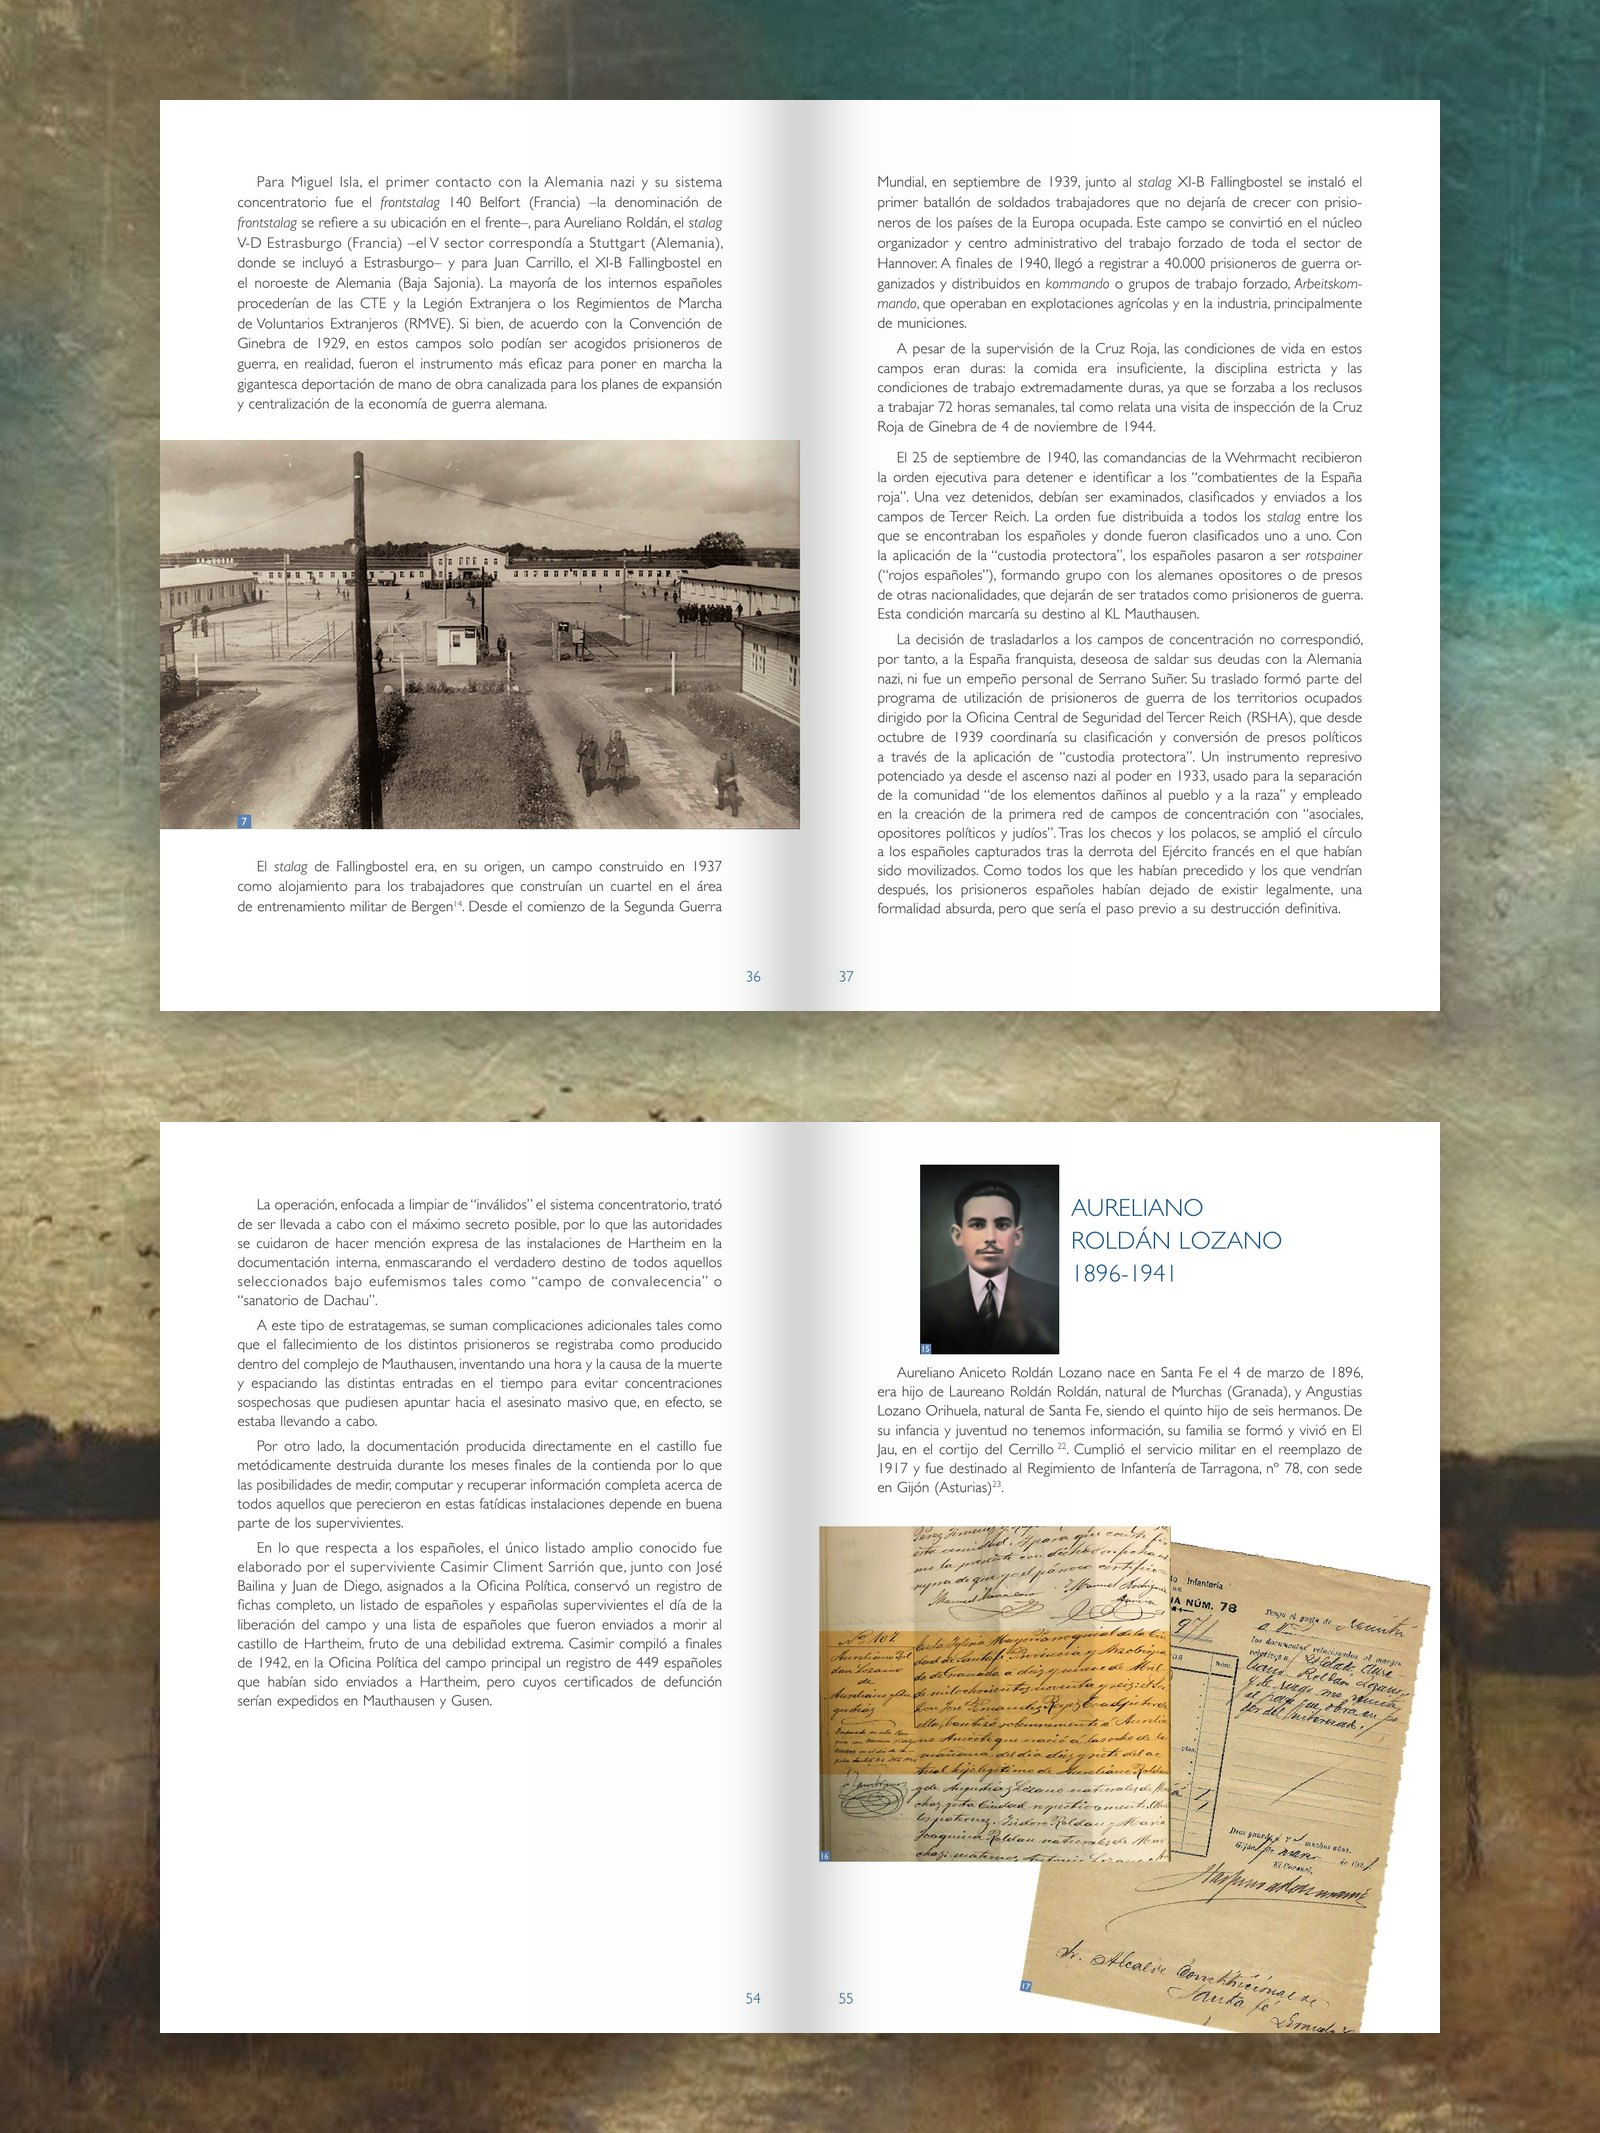
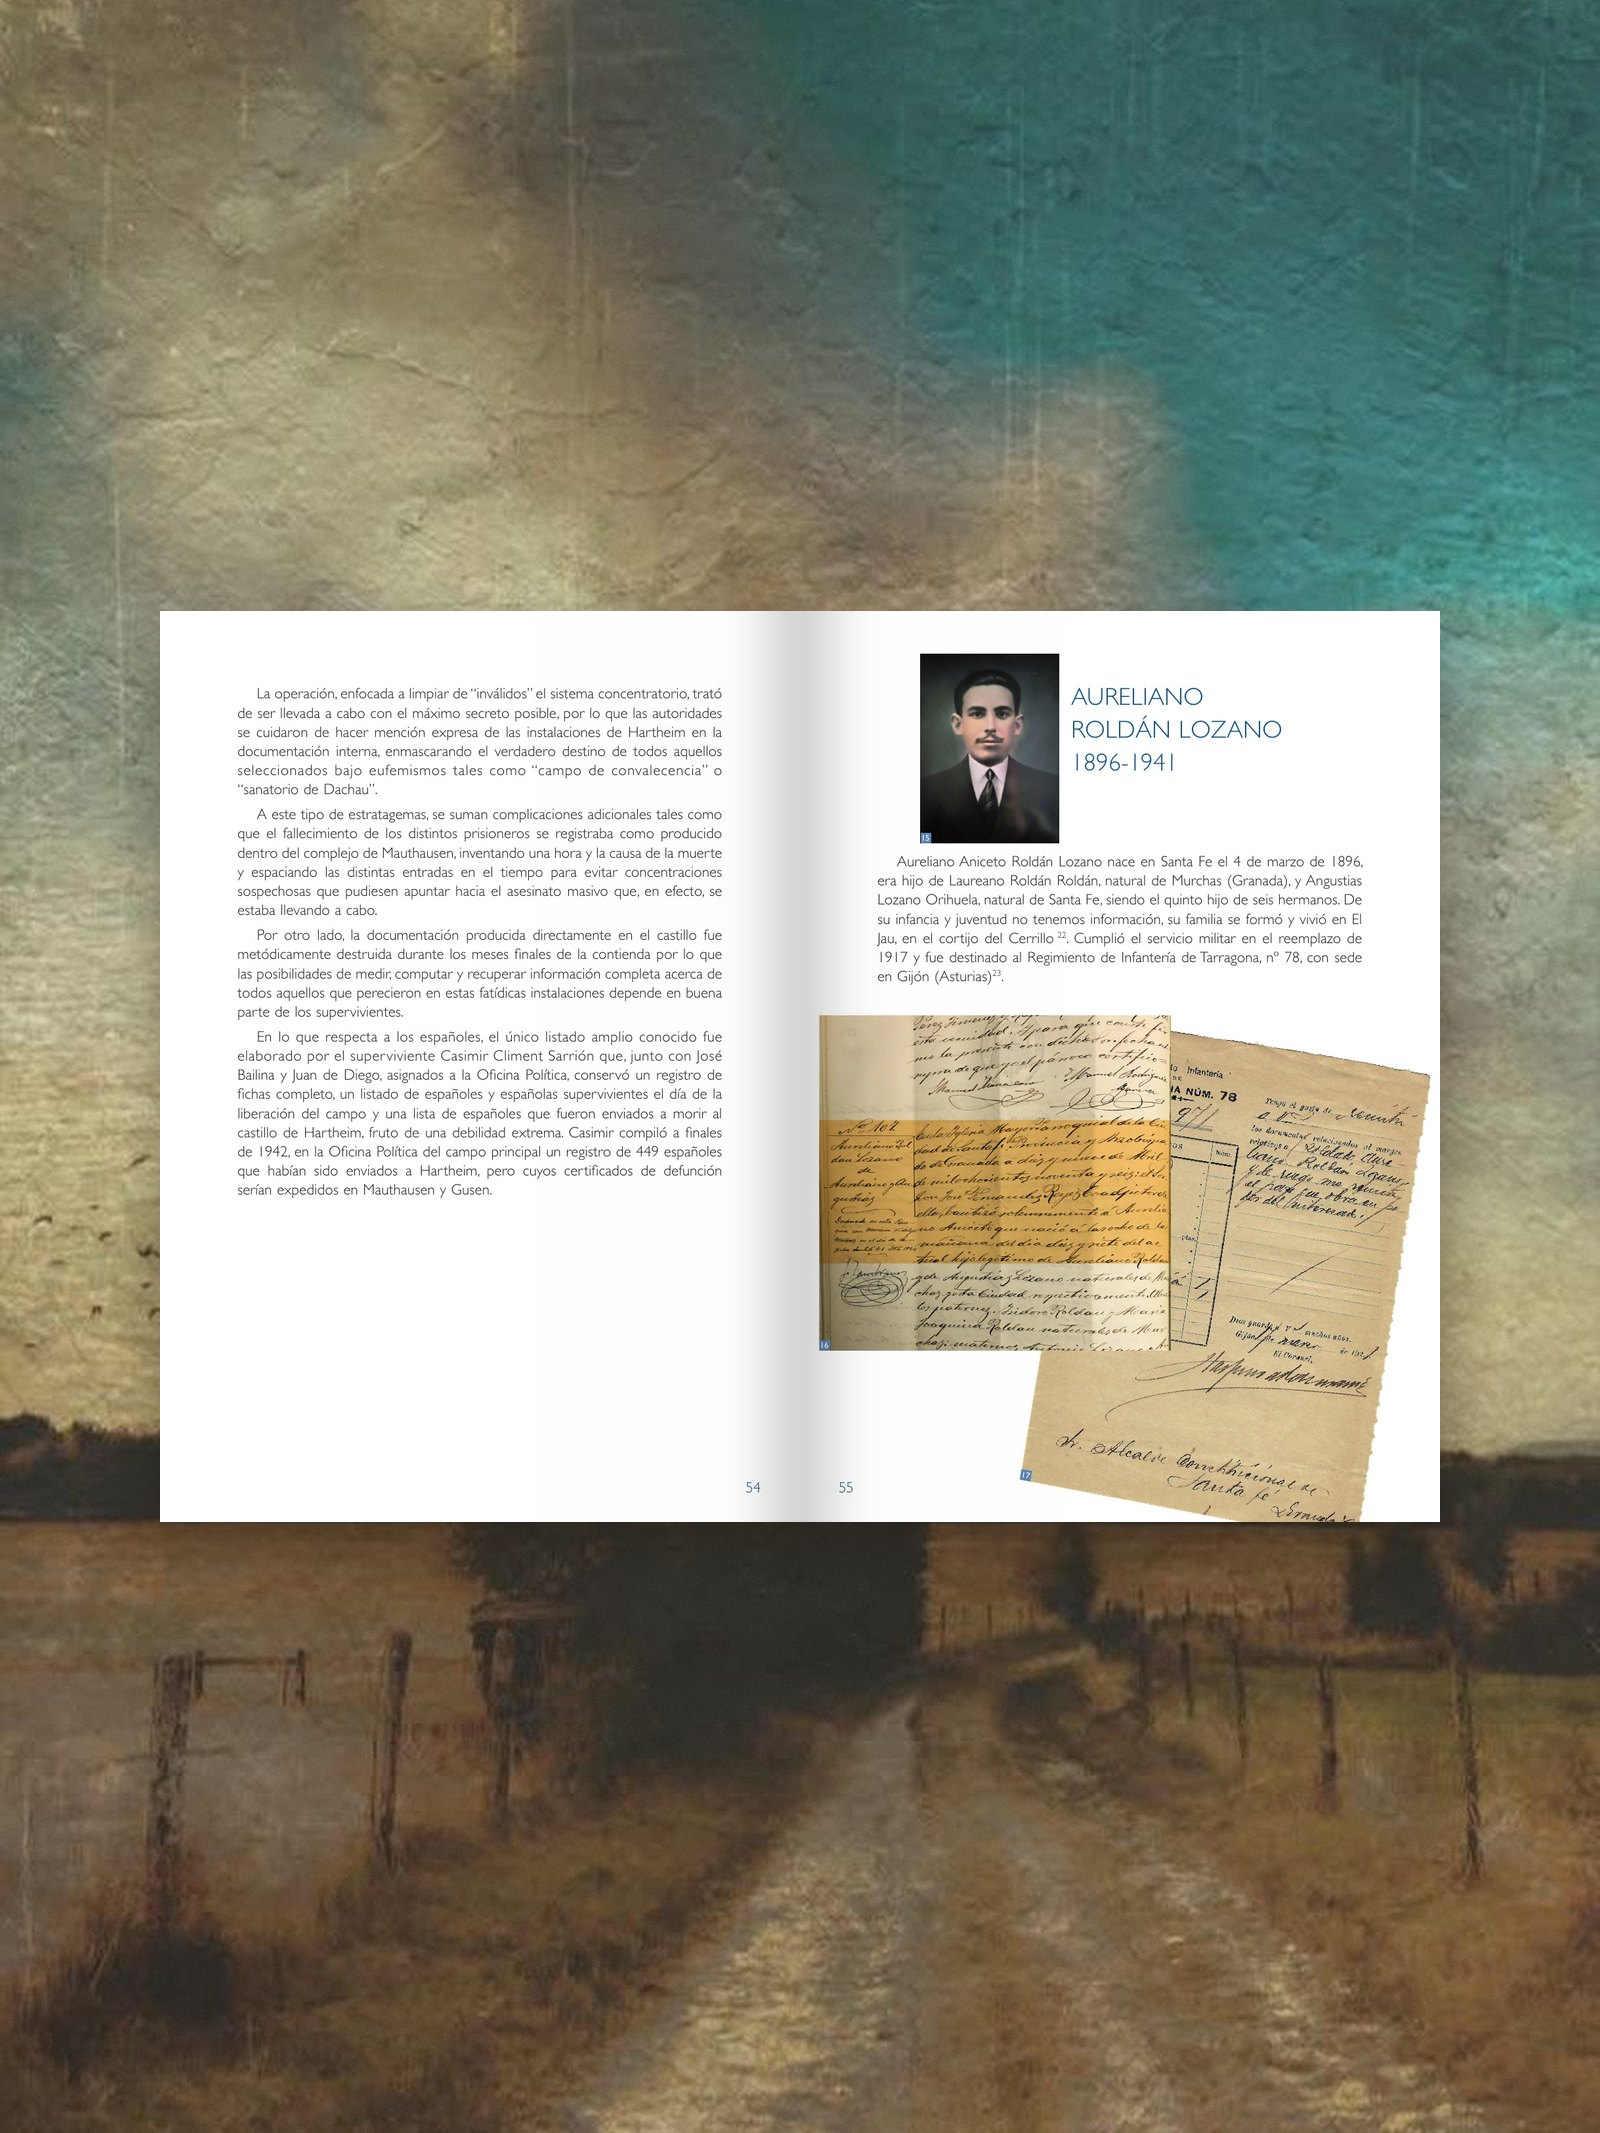
Fotos interiores alternando sueltas y dobles (Santa Fe, Primitivismo, Coín); recorte de vídeos con U2-Net
Claude-Session: https://claude.ai/code/session_014ZHEqD2MNxqjAg6cJYzQom

diff --git a/web/sitio/contenido.js b/web/sitio/contenido.js
@@ -162,7 +162,7 @@ window.CONTENIDO = {
         portada: "fotos/proyectos/06-santa-maria-de-coin-portada.jpg",
         detalle: "fotos/proyectos/06-santa-maria-de-coin-detalle.jpg",
         completa: "fotos/proyectos/06-santa-maria-de-coin-completa.jpg",
-        escenas: ["fotos/proyectos/06-santa-maria-de-coin-interior-3.jpg","fotos/proyectos/06-santa-maria-de-coin-interior-1.jpg","fotos/proyectos/06-santa-maria-de-coin-interior-2.jpg","fotos/proyectos/06-santa-maria-de-coin-interior-4.mp4"],
+        escenas: ["fotos/proyectos/06-santa-maria-de-coin-interior-1.jpg","fotos/proyectos/06-santa-maria-de-coin-interior-2.jpg","fotos/proyectos/06-santa-maria-de-coin-interior-3.jpg","fotos/proyectos/06-santa-maria-de-coin-interior-4.mp4"],
       },
       ],
     },

diff --git a/web/scripts/video_sin_fondo.py b/web/scripts/video_sin_fondo.py
@@ -2,14 +2,14 @@
 
 modo "negro": el recuadro del vídeo queda con fondo negro (como los vídeos de libro generados).
 modo "fondo": sin recuadro; el libro va directamente sobre la imagen de fondo, con su sombra.
-El fondo gris se modela como una superficie suave (polinomio) ajustada a la mediana de los fotogramas,
-descartando el libro de forma iterativa; lo que se aparta de ese modelo es libro (o sombra).
+El libro se recorta fotograma a fotograma con U2-Net (paquete rembg), que lo deja sólido aunque tenga
+zonas del mismo gris que el estudio. Requiere: python3 -m pip install "rembg[cpu]".
 
 Uso: python3 web/scripts/video_sin_fondo.py <vídeo.mp4> <fondo.jpg> <salida.mp4> <negro|fondo> [escala]
 """
 import sys, subprocess
 import numpy as np
-from scipy import ndimage
+from rembg import remove, new_session
 from PIL import Image, ImageFilter
 import santa_fe_fondos as sf
 
@@ -31,21 +31,6 @@ def lee(v, filtro, w, h):
         if len(b) < n: break
         yield np.frombuffer(b, np.uint8).reshape(h, w, 3).astype(np.float32)
 
-def base(w, h, grado=3):
-    y, x = np.mgrid[0:h, 0:w]; x = x / w - .5; y = y / h - .5
-    return np.stack([x ** i * y ** j for i in range(grado + 1) for j in range(grado + 1 - i)], axis=-1).reshape(-1, (grado + 1) * (grado + 2) // 2)
-
-def modelo_fondo(v, filtro, w, h):
-    fr = np.array(list(lee(v, filtro.replace("scale=", "fps=4,scale="), w, h)))
-    med = np.median(fr, axis=0).reshape(-1, 3)
-    A = base(w, h)
-    ok = np.ones(len(med), bool)
-    for _ in range(6):
-        c, *_ = np.linalg.lstsq(A[ok], med[ok], rcond=None)
-        res = np.abs(med - A @ c).max(axis=1)
-        ok = res < max(6, np.percentile(res[ok], 70) * 1.5)
-    return (A @ c).reshape(h, w, 3)
-
 def main(video, fondo, salida, modo, escala=1):
     vw, vh, fps = info(video)
     recorte = ""
@@ -56,7 +41,6 @@ def main(video, fondo, salida, modo, escala=1):
         h = round(H * ANCHO * float(escala)); w = round(h * vw / vh)
     w -= w % 2; h -= h % 2; x0, y0 = (W - w) // 2, (H - h) // 2
     filtro = f"{recorte}scale={w}:{h}"
-    B = modelo_fondo(video, filtro, w, h)
     bg = np.asarray(sf.fondo(fondo).resize((W, H), Image.LANCZOS)).astype(np.float32)
     if modo == "negro":  # recuadro negro con su sombra sobre el fondo
         sh = Image.new("L", (W, H), 0); sh.paste(255, (x0 + 4, y0 + 18, x0 + w + 4, y0 + h + 18))
@@ -65,29 +49,27 @@ def main(video, fondo, salida, modo, escala=1):
     out = subprocess.Popen(["ffmpeg", "-v", "error", "-y", "-f", "rawvideo", "-pix_fmt", "rgb24", "-s", f"{W}x{H}", "-r", fps, "-i", "-",
                             "-an", "-c:v", "libx264", "-crf", "26", "-preset", "slow", "-pix_fmt", "yuv420p", "-movflags", "+faststart",
                             str(sf.SITIO / salida)], stdin=subprocess.PIPE)
-    lum = B.mean(axis=2)
     yy, xx = np.mgrid[0:h, 0:w]
     borde = np.clip(np.minimum.reduce([xx, w - 1 - xx, yy, h - 1 - yy]) / 50, 0, 1)[..., None]
+    sesion = new_session("u2net")
+    prev = None
     for f in lee(video, filtro, w, h):
-        d = f - B
-        m = d.mean(axis=2); croma = np.abs(d - m[..., None]).max(axis=2)
-        ratio = f.mean(axis=2) / np.maximum(lum, 1)
-        # libro: más claro que el estudio, con color propio, o muy oscuro (cubiertas negras); la sombra gris no cuenta
-        a = np.maximum.reduce([np.clip((m - 8) / 14, 0, 1), np.clip((croma - 9) / 12, 0, 1), np.clip((.5 - ratio) / .15, 0, 1)])
-        # rellena los huecos del libro (zonas de la cubierta parecidas al gris del estudio)
-        lleno = ndimage.binary_fill_holes(ndimage.binary_closing(a > .5, iterations=6))
-        a = np.maximum(a, lleno)
-        a = np.asarray(Image.fromarray((a * 255).astype(np.uint8)).filter(ImageFilter.MinFilter(3)).filter(ImageFilter.GaussianBlur(1.2)), np.float32)[..., None] / 255
+        # máscara del libro con U2-Net (rembg): el libro queda sólido, sin mezclarse con el fondo
+        m = np.asarray(remove(Image.fromarray(f.astype(np.uint8)), session=sesion, only_mask=True), np.float32) / 255
+        m = np.clip((m - .1) / .8, 0, 1)
+        if prev is not None: m = .7 * m + .3 * prev  # suaviza el parpadeo entre fotogramas
+        prev = m
+        a = m[..., None]
         if modo == "fondo":
             a = a * borde  # el libro se funde al salir del encuadre del vídeo
-        # sombra: donde el fotograma es más oscuro que el estudio
-        osc = np.clip((lum - f.mean(axis=2)) / np.maximum(lum, 1), 0, 1)[..., None] * (1 - a)
+            som = np.asarray(Image.fromarray((a[..., 0] * 255).astype(np.uint8)).transform((w, h), Image.AFFINE, (1, 0, -8, 0, 1, -22))
+                             .filter(ImageFilter.GaussianBlur(18)), np.float32)[..., None] / 255 * .55
         lienzo = bg.copy()
         zona = lienzo[y0:y0 + h, x0:x0 + w]
         if modo == "negro":
             zona[:] = f * a
         else:
-            zona[:] = zona * (1 - np.clip(osc * 1.6, 0, .75)) * (1 - a) + f * a
+            zona[:] = zona * (1 - som) * (1 - a) + f * a
         out.stdin.write(np.clip(lienzo, 0, 255).astype(np.uint8).tobytes())
     out.stdin.close(); out.wait()
 

diff --git a/web/scripts/montaje.py b/web/scripts/montaje.py
@@ -1,0 +1,64 @@
+"""Fotos interiores de los catálogos, alternando sueltas y dobles (nunca dos sueltas ni dos dobles seguidas).
+
+Cada foto es un fondo 3:4 con uno o dos dobles de páginas apilados. Un doble es un mockup sobre negro
+(web/referencias-mockups/<carpeta>/N.jpg) o un par de páginas del PDF de interior (página izquierda N).
+Uso: python3 web/scripts/montaje.py <santa-fe|primitivismo|coin>
+"""
+import sys, tempfile
+from pathlib import Path
+import numpy as np
+from PIL import Image
+import santa_fe_fondos as sf
+import dobles_pdf
+
+UP = Path("/mnt/user-data/uploads/hearth")
+REF = Path(__file__).resolve().parents[1] / "referencias-mockups"
+PDF_SF = "/mnt/project-files/Santa Fe_Mauthausen_Santa Fe ALTA.pdf"
+PDF_AF = "/mnt/project-files/catálogo ARTE AFRICANO  24nov.pdf"
+
+def f(uid): return next((UP / uid).glob("*.jp*g"))
+
+CATALOGOS = {
+    "santa-fe": ("03-santa-fe-mauthausen", "santa-fe-dobles", PDF_SF, [
+        ("e0193c2e-0462-40e0-bb97-3fc43623ec49", ["m1", "m2"]),
+        ("16486969-8684-40a8-a6b4-abcaaf781270", ["m3"]),
+        ("61af4831-1489-4214-9d6d-b71583ff5b5f", ["m4", 25]),
+        ("ead9bdce-0851-49f4-a38b-0e86c885cadf", [43]),
+        ("12d77379-3de9-45b3-b817-49b3f76c5b76", [51, 61]),
+    ]),
+    "primitivismo": ("04-primitivismo-y-modernidad", "primitivismo-dobles", PDF_AF, [
+        ("18c1e109-4d5f-4784-a830-1dc26dded669", ["m1", "m3"]),
+        ("fe949059-04b5-43a7-861d-51cc584036bd", ["m2"]),
+        ("aeb6fbea-72d8-4836-bc6b-67b3330e326e", ["m4", 60]),
+        ("0a7aca49-6dab-465a-b971-1c54e98fc84f", [66]),
+        ("e98dba43-383a-495d-9982-79d7d557a24e", [76, 216]),
+    ]),
+    "coin": ("06-santa-maria-de-coin", "santa-maria-coin-dobles", None, [
+        ("997ff50b-a9af-4475-8f22-6175f6e769e1", ["m1"]),
+        ("1172d16d-e742-4f7e-9581-373da77dc44a", ["m2", "m3"]),
+        ("00b5d91c-b5b1-4e04-a55e-8d452ca626d9", ["m4"]),
+    ]),
+}
+QUITA_ABAJO = {"61af4831-1489-4214-9d6d-b71583ff5b5f": .07}  # marca de agua
+
+def mockup(carpeta, n):
+    im = Image.open(REF / carpeta / f"{n}.jpg").convert("RGB")
+    ys, xs = np.where(np.asarray(im).max(axis=2) > 28)
+    return im.crop((xs.min(), ys.min(), xs.max() + 1, ys.max() + 1))
+
+def main(nombre):
+    pref, carpeta, pdf, fotos = CATALOGOS[nombre]
+    with tempfile.TemporaryDirectory() as tmp:
+        for i, (fondo, piezas) in enumerate(fotos, 1):
+            ims = [mockup(carpeta, p[1:]) if isinstance(p, str) else dobles_pdf.doble(pdf, p, tmp) for p in piezas]
+            b = sf.fondo(f(fondo), QUITA_ABAJO.get(fondo, 0))
+            hs = [round(p.height * sf.W * sf.ANCHO / p.width) for p in ims]
+            sep = 110
+            y = sf.H / 2 - (sum(hs) + sep * (len(hs) - 1)) / 2
+            for p, h in zip(ims, hs):
+                sf.pon(b, p, y + h / 2); y += h + sep
+            b.save(sf.SITIO / f"{pref}-interior-{i}.jpg", quality=86, optimize=True, progressive=True)
+    print(nombre, len(fotos), "fotos")
+
+if __name__ == "__main__":
+    main(sys.argv[1])
